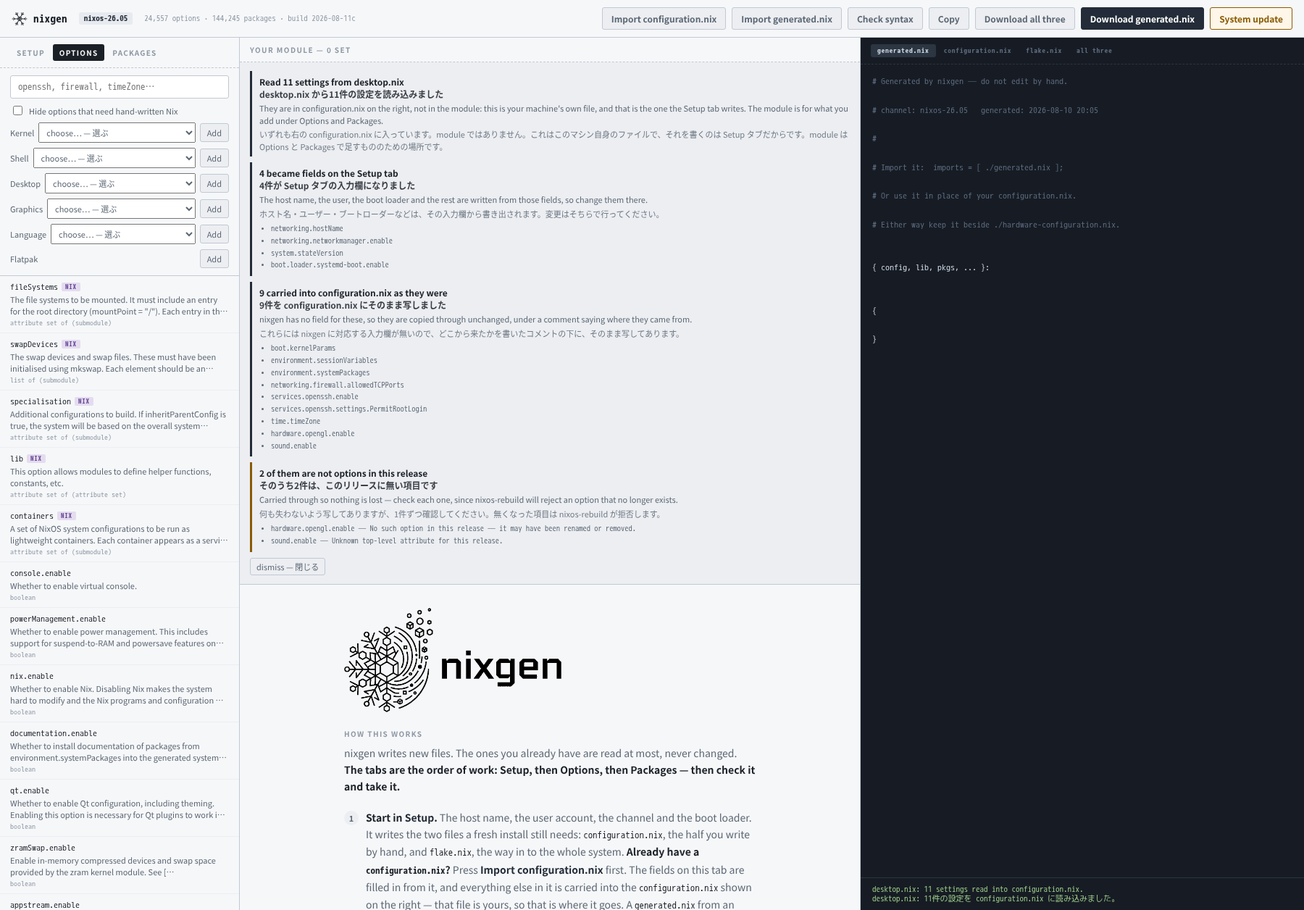
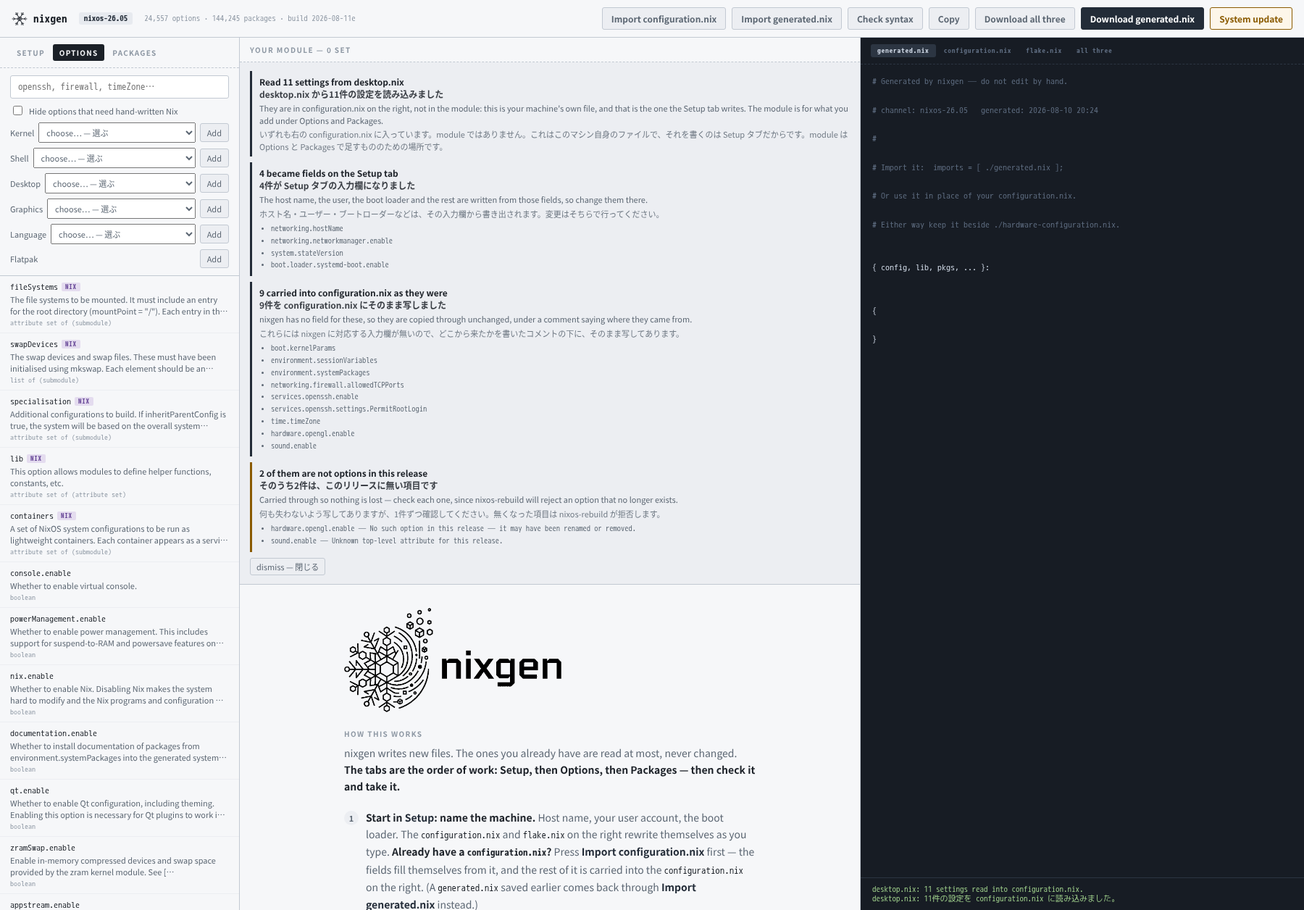
Rewrite the walkthroughs for somebody's first time
The README's install section runs all the way through now: turn on
flakes, start nixgen, build the configuration in the browser — a concrete
first run, field by field — put the files on the machine, rebuild. The
old step 4 still described the one-file, edit-imports-by-hand path from
before Download all three existed; it survives as the variant for
machines configured by hand, not as the default.

The five steps in the app are one action each: the file tree moved from
step 1 to step 5, because it shows where files end up and step 5 is where
they do. Step 2 leads with the dropdowns.

The homepage section is a complete path on its own — what to run first,
the five steps, the three commands that apply the result — in both
languages, with the README linked for the long version.

Changed region(s): [[0.28, 0.8694, 0.5911, 1.0]]

diff --git a/build/static/index.html b/build/static/index.html
@@ -283,19 +283,33 @@
                the question that left unanswered was the first one anybody
                has: which of these do I do first. -->
           <ol>
-            <li><b>Start in <b class="w">Setup</b>.</b> The host name, the user
-              account, the channel and the boot loader. It writes the two files
-              a fresh install still needs: <code>configuration.nix</code>, the
-              half you write by hand, and <code>flake.nix</code>, the way in to
-              the whole system.
+            <li><b>Start in <b class="w">Setup</b>: name the machine.</b>
+              Host name, your user account, the boot loader. The
+              <code>configuration.nix</code> and <code>flake.nix</code> on the
+              right rewrite themselves as you type.
               <b>Already have a <code>configuration.nix</code>?</b> Press
-              <b class="w">Import configuration.nix</b> first. The fields on
-              this tab are filled in from it, and everything else in it is
-              carried into the <code>configuration.nix</code> shown on the
-              right — that file is yours, so that is where it goes. A
-              <code>generated.nix</code> from an earlier session comes back
-              through <b class="w">Import generated.nix</b> instead, into the
-              module.
+              <b class="w">Import configuration.nix</b> first — the fields fill
+              themselves from it, and the rest of it is carried into the
+              <code>configuration.nix</code> on the right. (A
+              <code>generated.nix</code> saved earlier comes back through
+              <b class="w">Import generated.nix</b> instead.)</li>
+            <li><b>Open <b class="w">Options</b>: add settings.</b> The
+              dropdowns handle the big ones in one go — a kernel, a shell, a
+              desktop, graphics, a language, Flatpak. For anything else, type
+              what you are after — <code>ssh</code>, <code>firewall</code>,
+              <code>timeZone</code> — and click a result to bring it here.</li>
+            <li><b>Open <b class="w">Packages</b>: add software.</b> Search, or
+              pick a category under <b class="w">Common apps</b>. Everything you
+              click goes into <code>environment.systemPackages</code>.</li>
+            <li><b>Press <b class="w">Check syntax</b> when you are done.</b> It
+              runs the real Nix parser and says where the file breaks. It cannot
+              tell you whether a value is the right <i>type</i> — that is
+              <code>dry-build</code>'s job, at the end. Fix anything it reports
+              before going on.</li>
+            <li><b>Press <b class="w">Download all three</b> and put the files
+              in place.</b> One archive, named after your host. Unpack it and
+              copy the three files into <code>/etc/nixos</code>, next to the
+              one file that is already yours:
               <!-- ASCII rather than box drawing: the mono stack falls back to
                    a proportional face for those glyphs on some machines, and a
                    tree that does not line up is worse than no tree. -->
@@ -303,26 +317,9 @@
 |-- flake.nix                   from Setup
 |-- configuration.nix           from Setup
 |-- hardware-configuration.nix  written when you installed; left alone
-`-- generated.nix               what you build here</pre>
-              <code>flake.nix</code> reads <code>configuration.nix</code>, which
-              reads the other two.</li>
-            <li><b>Then <b class="w">Options</b> — the settings.</b> Type what
-              you are after — <code>ssh</code>, <code>firewall</code>,
-              <code>timeZone</code> — and click a result to bring it here. The
-              four dropdowns above the results do a kernel, a desktop, a
-              graphics driver or a language in one go.</li>
-            <li><b>Then <b class="w">Packages</b> — the software.</b> Search, or
-              pick a category under <b class="w">Common apps</b>. Everything you
-              click goes into <code>environment.systemPackages</code>.</li>
-            <li><b>Press <b class="w">Check syntax</b> when you are done.</b> It
-              runs the real Nix parser and says where the file breaks. It cannot
-              tell you whether a value is the right <i>type</i> — that is the
-              next step's job. Fix anything it reports before going on.</li>
-            <li><b>Press <b class="w">Download all three</b>.</b> One archive
-              holding all three files. Unpack it beside the
-              <code>hardware-configuration.nix</code> you already have, then run
-              <code>sudo nixos-rebuild dry-build</code>, and switch only if that
-              is clean. Setup prints the command.</li>
+`-- generated.nix               what you built here</pre>
+              Then <code>sudo nixos-rebuild dry-build</code>, and switch only
+              if that is clean. Setup prints both commands.</li>
           </ol>
           <p class="warnbox"><b>System update does steps 4 and 5 for you — once
             everything is set.</b> It downloads the archive and hands you one
@@ -358,17 +355,17 @@
             <p class="eyebrow">使い方</p>
             <p class="lede">nixgen は新しいファイルを作ります。今あるファイルは読むだけで、書き換えることはありません。<b>タブの並びが、そのまま進める順序です。Setup → Options → Packages、そして確認して受け取ります。</b></p>
             <ol>
-              <li><b>まず <b class="w">Setup</b> から。</b>ホスト名、ユーザー、チャンネル、ブートローダーを決めます。インストール直後に足りない2つのファイルは、ここで用意されます。手で書く側の <code>configuration.nix</code> と、システム全体の入口になる <code>flake.nix</code> です。<b>すでに <code>configuration.nix</code> がある場合は</b>、先に <b class="w">Import configuration.nix</b> を押してください。このタブの項目が読み込んだファイルから埋まり、<b>それ以外の設定は右の <code>configuration.nix</code> にそのまま入ります</b>。あのファイルはあなたのものなので、そこへ入れます。前回作った <code>generated.nix</code> を戻したいときは、<b class="w">Import generated.nix</b> のほうを使ってください。module に入ります。
+              <li><b>まず <b class="w">Setup</b> で、マシンの名前を決めます。</b>ホスト名、自分のアカウント、ブートローダー。入力するそばから、右側の <code>configuration.nix</code> と <code>flake.nix</code> が書き換わっていきます。<b>すでに <code>configuration.nix</code> がある場合は</b>、先に <b class="w">Import configuration.nix</b> を押してください。このタブの項目が読み込んだファイルから埋まり、それ以外は右の <code>configuration.nix</code> にそのまま入ります。(前回保存した <code>generated.nix</code> を戻すときは、<b class="w">Import generated.nix</b> のほうです。)</li>
+              <li><b><b class="w">Options</b> を開いて、設定を足します。</b>大物はプルダウンで一度に入ります — カーネル・シェル・デスクトップ・グラフィックス・言語・Flatpak。それ以外は検索です。<code>ssh</code>、<code>firewall</code>、<code>timeZone</code> のように打って、結果をクリックすると、ここに入ります。</li>
+              <li><b><b class="w">Packages</b> を開いて、ソフトを足します。</b>検索するか、<b class="w">Common apps</b> の分野から選びます。クリックしたものは <code>environment.systemPackages</code> に入ります。</li>
+              <li><b>ひと通り終えたら <b class="w">Check syntax</b> を押します。</b>本物の Nix のパーサーを通し、どこで壊れているかを伝えます。値の<i>型</i>が正しいかどうかまでは分かりません。それは最後の <code>dry-build</code> の役目です。ここで指摘が出たら、直してから先に進んでください。</li>
+              <li><b><b class="w">Download all three</b> を押して、ファイルを配置します。</b>ホスト名の付いた書庫が1つ出てきます。展開して、3つのファイルを <code>/etc/nixos</code> にコピーしてください。もともとあるファイルは1つだけ、隣に残ります。
                 <pre class="tree">/etc/nixos/
 |-- flake.nix                   Setup から
 |-- configuration.nix           Setup から
 |-- hardware-configuration.nix  インストール時に作られたもの。触りません
-`-- generated.nix               ここで作るファイル</pre>
-                <code>flake.nix</code> が <code>configuration.nix</code> を読み、そこから残りの2つを読みます。</li>
-              <li><b>次に <b class="w">Options</b> — 設定項目です。</b>探しているものを入力します — <code>ssh</code>、<code>firewall</code>、<code>timeZone</code> など。結果をクリックすると、ここに入ります。結果の上にある4つのプルダウンでは、カーネル・デスクトップ・グラフィックス・言語がひと通り揃います。</li>
-              <li><b>次に <b class="w">Packages</b> — ソフトウェアです。</b>検索するか、<b class="w">Common apps</b> の分野から選びます。クリックしたものは <code>environment.systemPackages</code> に入ります。</li>
-              <li><b>ひと通り終えたら <b class="w">Check syntax</b> を押します。</b>本物の Nix のパーサーを通し、どこで壊れているかを伝えます。値の<i>型</i>が正しいかどうかまでは分かりません。それは次の手順の役目です。ここで指摘が出たら、直してから先に進んでください。</li>
-              <li><b><b class="w">Download all three</b> を押します。</b>3つのファイルが1つの書庫で出てきます。既にある <code>hardware-configuration.nix</code> の隣に展開し、<code>sudo nixos-rebuild dry-build</code> を実行してください。<b>問題が無いときだけ</b>切り替えます。コマンドは Setup に表示されています。</li>
+`-- generated.nix               ここで作ったファイル</pre>
+                そのあと <code>sudo nixos-rebuild dry-build</code> を実行し、<b>問題が無いときだけ</b>切り替えます。コマンドは両方とも Setup に表示されています。</li>
             </ol>
             <p class="warnbox"><b>System update は、手順4と5を代わりに行います。ただし、設定がすべて済んでいることが前提です。</b>書庫をダウンロードし、<code>/etc/nixos</code> の3ファイルを上書きしてマシンを再構築する<b>コマンドを1つ</b>渡します。各段階の前に確認を求めます。<b>設定とソフトウェアをひととおり終え、<b class="w">Check syntax</b> を通してから</b>実行してください。<b>このマシンが起動に使う設定を置き換えます。</b>置き換えられたファイルは新しいものの隣に残り、<code>hardware-configuration.nix</code> には一切触れません。</p>
             <div class="after">

diff --git a/docs/index.html b/docs/index.html
@@ -234,13 +234,20 @@ footer a { margin-right: 14px; }
       screen until you add your first setting.</p>
     <p class="ja">Setup → Options → Packages と進み、確認してから受け取ります。最初の設定を足すまでは、アプリの画面中央にも同じ案内が出ています。</p>
 
+    <p class="en"><b>Starting it is the one command above.</b> The first run takes about five
+      minutes while the search index is built; after that it starts in a second. It needs
+      flakes switched on — if <code>nix flake --help</code> prints help text you are set, and
+      the <a href="https://github.com/hatake716/nixgen#step-1--turn-on-flakes">README</a> shows
+      the one line to add if not. Then, in the browser:</p>
+    <p class="ja"><b>起動は上のコマンド1つです。</b>初回は検索インデックスを作るため5分ほどかかります。2回目からは1秒で立ち上がります。flakes が有効になっている必要があります。<code>nix flake --help</code> でヘルプが出れば準備済みです。出ない場合に足す1行は <a href="https://github.com/hatake716/nixgen/blob/main/README.ja.md#ステップ1--flakesを有効にする">README</a> にあります。そのあと、ブラウザで:</p>
+
     <ol class="steps en">
       <li><b>Setup</b> — the machine itself: host name, user account, channel, boot loader. It
         writes the <code>configuration.nix</code> and <code>flake.nix</code> a fresh install still
         needs. <b>Already have a <code>configuration.nix</code>?</b> Press
         <b>Import configuration.nix</b> first and carry on here.</li>
-      <li><b>Options</b> — the settings. Search for what you are after, or take a kernel, a
-        desktop, a graphics driver or a language from the dropdowns.</li>
+      <li><b>Options</b> — the settings. Search for what you are after, or take a kernel, a shell, a
+        desktop, a graphics driver, a language or Flatpak from the dropdowns.</li>
       <li><b>Packages</b> — the software. Search, or pick a category under <b>Common apps</b>.
         Everything lands in <code>environment.systemPackages</code>.</li>
       <li><b>Check syntax</b> — the real Nix parser, on the file it just wrote. It says where the
@@ -255,15 +262,24 @@ footer a { margin-right: 14px; }
          middle of the sentence. -->
     <ol class="steps ja">
       <li><b>Setup</b> — マシンそのものです。ホスト名、ユーザー、チャンネル、ブートローダー。インストール直後に足りない <code>configuration.nix</code> と <code>flake.nix</code> は、ここで出てきます。<b>すでに <code>configuration.nix</code> がある場合は</b>、先に <b>Import configuration.nix</b> を押して、そのままここから続けます。</li>
-      <li><b>Options</b> — 設定項目です。探しているものを検索するか、カーネル・デスクトップ・グラフィックス・言語をプルダウンから選びます。</li>
+      <li><b>Options</b> — 設定項目です。探しているものを検索するか、カーネル・シェル・デスクトップ・グラフィックス・言語・Flatpak をプルダウンから選びます。</li>
       <li><b>Packages</b> — ソフトウェアです。検索するか、<b>Common apps</b> の分野から選びます。選んだものは <code>environment.systemPackages</code> に入ります。</li>
       <li><b>Check syntax</b> — いま書き上がったファイルを、本物のNixパーサに通します。どこで壊れているかは分かりますが、値の<i>型</i>が正しいかどうかは分かりません。</li>
       <li><b>Download all three</b> — <code>configuration.nix</code>・<code>flake.nix</code>・<code>generated.nix</code> が1つの <code>.tar.gz</code> で出てきます。手元の <code>hardware-configuration.nix</code> の隣に展開し、<code>sudo nixos-rebuild dry-build</code> を実行して、問題が無いときだけ切り替えます。</li>
     </ol>
 
+    <p class="en">On a new machine, putting the archive to work is three commands — and the
+      <b>System update</b> button in the app runs them for you, asking before each:</p>
+    <p class="ja">新しいマシンでは、受け取った書庫を使うのはコマンド3つです。アプリの <b>System update</b> ボタンは、これを各段階の確認付きで代行します。</p>
+    <pre class="cmd">tar -xzf desktop.tar.gz
+sudo cp desktop/*.nix /etc/nixos/
+sudo nixos-rebuild dry-build   <span class="p"># then: sudo nixos-rebuild switch</span></pre>
+
     <p class="tiny en">You can go back to any tab whenever you like — the order is where to start,
-      not a door that shuts behind you.</p>
-    <p class="tiny ja">タブにはいつでも戻れます。この順序はどこから始めるかの話で、一度離れたら戻れないわけではありません。</p>
+      not a door that shuts behind you. The
+      <a href="https://github.com/hatake716/nixgen#installing">README</a> walks the whole path
+      with every command written out.</p>
+    <p class="tiny ja">タブにはいつでも戻れます。この順序はどこから始めるかの話で、一度離れたら戻れないわけではありません。全コマンドを書き出した通しの説明は <a href="https://github.com/hatake716/nixgen/blob/main/README.ja.md#インストール">README</a> にあります。</p>
   </div>
 </section>
 

diff --git a/build/static/app.js b/build/static/app.js
@@ -2,7 +2,7 @@
 
 /* Shown in the header. Bump it whenever this file changes, so "the fix did not
    work" can be told apart from "the old file is still being served". */
-const BUILD = '2026-08-11c';
+const BUILD = '2026-08-11e';
 
 const $  = (s, r = document) => r.querySelector(s);
 const $$ = (s, r = document) => [...r.querySelectorAll(s)];

diff --git a/README.md b/README.md
@@ -123,7 +123,80 @@ nix run --refresh github:hatake716/nixgen
 
 The build id in the header tells you which one you are on.
 
-### Step 3 — Keep it around (optional)
+### Step 3 — Build your configuration in the browser
+
+The middle of the screen lists five steps, and they are the order the tabs are
+used in. A first run, concretely:
+
+1. On the **Setup** tab, type a name for the machine into **Host name** and
+   your account into **Main user**, then pick your boot loader —
+   **systemd-boot** for a UEFI machine, **GRUB** for an older BIOS one. The
+   `configuration.nix` and `flake.nix` on the right rewrite themselves as you
+   type.
+2. Open **Options** and add settings. The dropdowns at the top handle the big
+   ones in one go — a kernel, a shell, a desktop, a graphics driver, a
+   language, Flatpak. For anything else, search: type `timeZone`, click the
+   result, fill in the field that appears in the middle.
+3. Open **Packages** and add software: search for `firefox` and click it, or
+   pick a category under **Common apps**. Everything you click lands in
+   `environment.systemPackages`.
+4. Press **Check syntax** at the top right. It should answer `Parses cleanly.`
+   If it reports a problem, fix it before going on.
+5. Press **Download all three**. You get one archive, named after your host,
+   holding the three files nixgen wrote.
+
+Nothing you add is hidden: every setting is ordinary text in the files on the
+right, and every card can be changed or removed again. The
+[Using it](#using-it) section below describes each tab in detail.
+
+### Step 4 — Put it on the machine
+
+**On a new machine** — one still running the configuration the installer wrote
+— unpack the archive and copy the three files in:
+
+```bash
+cd ~/Downloads        # or wherever the archive landed
+tar -xzf desktop.tar.gz
+sudo cp desktop/*.nix /etc/nixos/
+```
+
+(`desktop` is whatever you typed as the host name.) This overwrites the
+`configuration.nix` that was there. `hardware-configuration.nix` — the file
+that describes your disks — is not in the archive and stays as it is. The
+**System update** button in the app runs these same steps for you, asking
+before each one and keeping backups of what it replaces.
+
+Check it, then apply it:
+
+```bash
+sudo nixos-rebuild dry-build
+sudo nixos-rebuild switch
+```
+
+That first `switch` also turns flakes on. From then on the command is the one
+the Setup tab prints:
+
+```bash
+sudo nixos-rebuild switch --flake /etc/nixos#desktop
+```
+
+**On a machine you already configure by hand**, take only `generated.nix` (the
+**Download generated.nix** button), save it beside your own
+`configuration.nix`, and add one line to your `imports` list:
+
+```nix
+{
+  imports = [
+    ./hardware-configuration.nix
+    ./generated.nix          # <- add this line
+  ];
+}
+```
+
+Nothing else in your file is touched, and **deleting that one line undoes
+everything** — run `switch` again and you have exactly your old system back.
+
+### Step 5 — Keep nixgen around (optional)
 
 So you can start it by typing `nixgen`:
 
@@ -140,47 +213,6 @@ nix profile upgrade nixgen
 ```
 
 Remove it later with `nix profile remove nixgen`.
-
-### Step 4 — Use the file it made
-
-Press **Download generated.nix** at the top right and save the file next to the
-`configuration.nix` you already have — usually in `/etc/nixos/`.
-
-```
-/etc/nixos/
-├── configuration.nix           the one you already have; one line gets added
-├── hardware-configuration.nix  written when you installed; left alone
-└── generated.nix               <- save it here
-```
-
-Then open `configuration.nix` and add one line to the `imports` list:
-
-```nix
-{
-  imports = [
-    ./hardware-configuration.nix
-    ./generated.nix          # <- add this line
-  ];
-}
-```
-
-That means "read the contents of `generated.nix` as settings too". **Nothing
-inside your original `configuration.nix` is touched.**
-
-Check that it holds together before applying it:
-
-```bash
-sudo nixos-rebuild dry-build
-```
-
-If there are no errors, apply it for real:
-
-```bash
-sudo nixos-rebuild switch
-```
-
-**To undo everything, delete that one line and run `switch` again.** Nothing
-else changed, so you get exactly your old system back.
 
 ### If something goes wrong
 
@@ -248,7 +280,10 @@ order to work in:
 
 You can go back to any tab at any time; the order is where to start, not a door
 that shuts behind you. Add anything and that panel becomes the thing you added.
-What follows is the longer version.
+
+**The [Getting started](#installing) walkthrough above already covers the whole
+path from install to switch.** What follows is the reference: each tab, each
+button, and the reasons behind them.
 
 ### Setup — starter files for a new machine
 
@@ -473,7 +508,7 @@ Intel.
 
 ### Options — picking a language
 
-The last of the four dropdowns under **Options** is **Language**: English,
+The **Language** dropdown under **Options** offers English,
 Japanese, French, German, Spanish, Korean or Chinese. Picking one sets the
 language up in full — the locale, the keymap the console uses, and the layout X
 uses. For Japanese, Korean and Chinese it also sets up fcitx5 with the right
@@ -576,7 +611,7 @@ sudo nixos-rebuild dry-build
 **Switch only if that is clean.** If you only want `generated.nix` — because
 your `configuration.nix` and `flake.nix` are your own — take it from its file
 tab instead, and add `./generated.nix` to `imports` as in
-[Step 4](#step-4--use-the-file-it-made) above.
+[Step 4](#step-4--put-it-on-the-machine) above.
 
 ### System update — applying it to this machine
 

diff --git a/CHANGELOG.md b/CHANGELOG.md
@@ -9,6 +9,24 @@ option counts.
 
 ## English
 
+### build 2026-08-11e
+
+Documentation, rewritten for somebody's first time.
+
+- **The README's install section now runs all the way through**: turn on
+  flakes, start nixgen, build the configuration in the browser — a concrete
+  first run, field by field — put the files on the machine, rebuild. The old
+  step 4 still described the one-file, edit-imports-by-hand path from before
+  **Download all three** existed; that path is still there, but as the variant
+  for machines you configure by hand, not the default.
+- **The five steps in the app are one action each now.** The file tree moved
+  from step 1 to step 5 — it shows where files end up, and step 5 is where
+  files end up. Step 2 leads with the dropdowns, which is where a first-timer
+  should start.
+- **The homepage section is a complete path on its own**: what to run first,
+  the five steps, and the three commands that apply the result. Both
+  languages, with links into the README for the long version.
+
 ### build 2026-08-11d
 
 - **The homepage masthead is the logo itself now**, not a drawing of it. It is
@@ -803,6 +821,14 @@ three of these six showed up in only one of the two.
 ---
 
 ## 日本語
+
+### build 2026-08-11e
+
+ドキュメントを、初めて使う人の目線で書き直しました。
+
+- **READMEのインストール節が、最初から最後まで一本道になりました。** flakes を有効にする → nixgen を起動する → ブラウザで設定を組み立てる(入力欄ごとの具体的な初回例) → ファイルをマシンに載せる → rebuild、の順です。これまでのステップ4は、**Download all three ができる前の**「generated.nix を1つ受け取って imports を手で書き足す」手順のままでした。その方法も残してありますが、既定ではなく「手書きの設定を使い続ける場合」の分岐になりました。
+- **アプリ内の5つの手順を、1手順=1動作にしました。** ファイル配置図は手順1から手順5へ移しました。あの図は「ファイルがどこに置かれるか」を示すもので、ファイルが手元に来るのは手順5だからです。手順2はプルダウンを先に案内します。初めての人が最初に触るべき場所だからです。
+- **ホームページの「進める順序」の節だけで、通しの手順が完結するようにしました。** 最初に実行するもの、5つの手順、受け取った書庫を適用する3コマンドです。英日両方で、詳しい版へのリンクはREADMEに向けています。
 
 ### build 2026-08-11d
 
